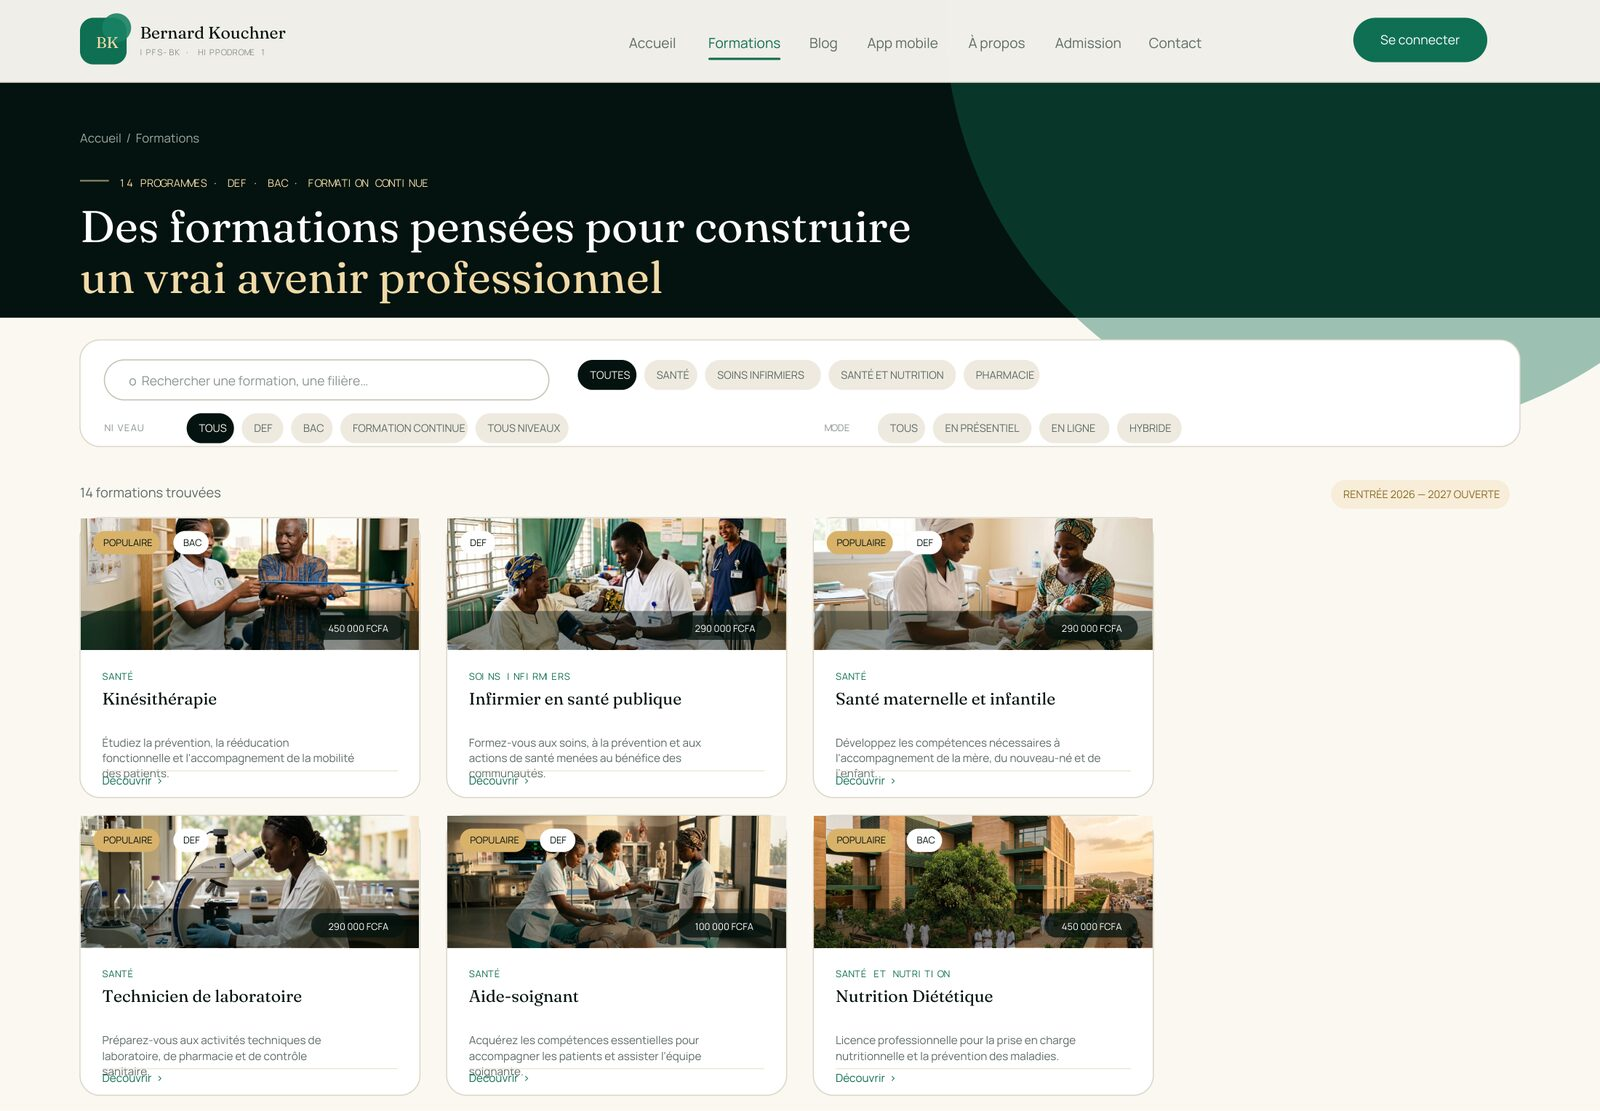
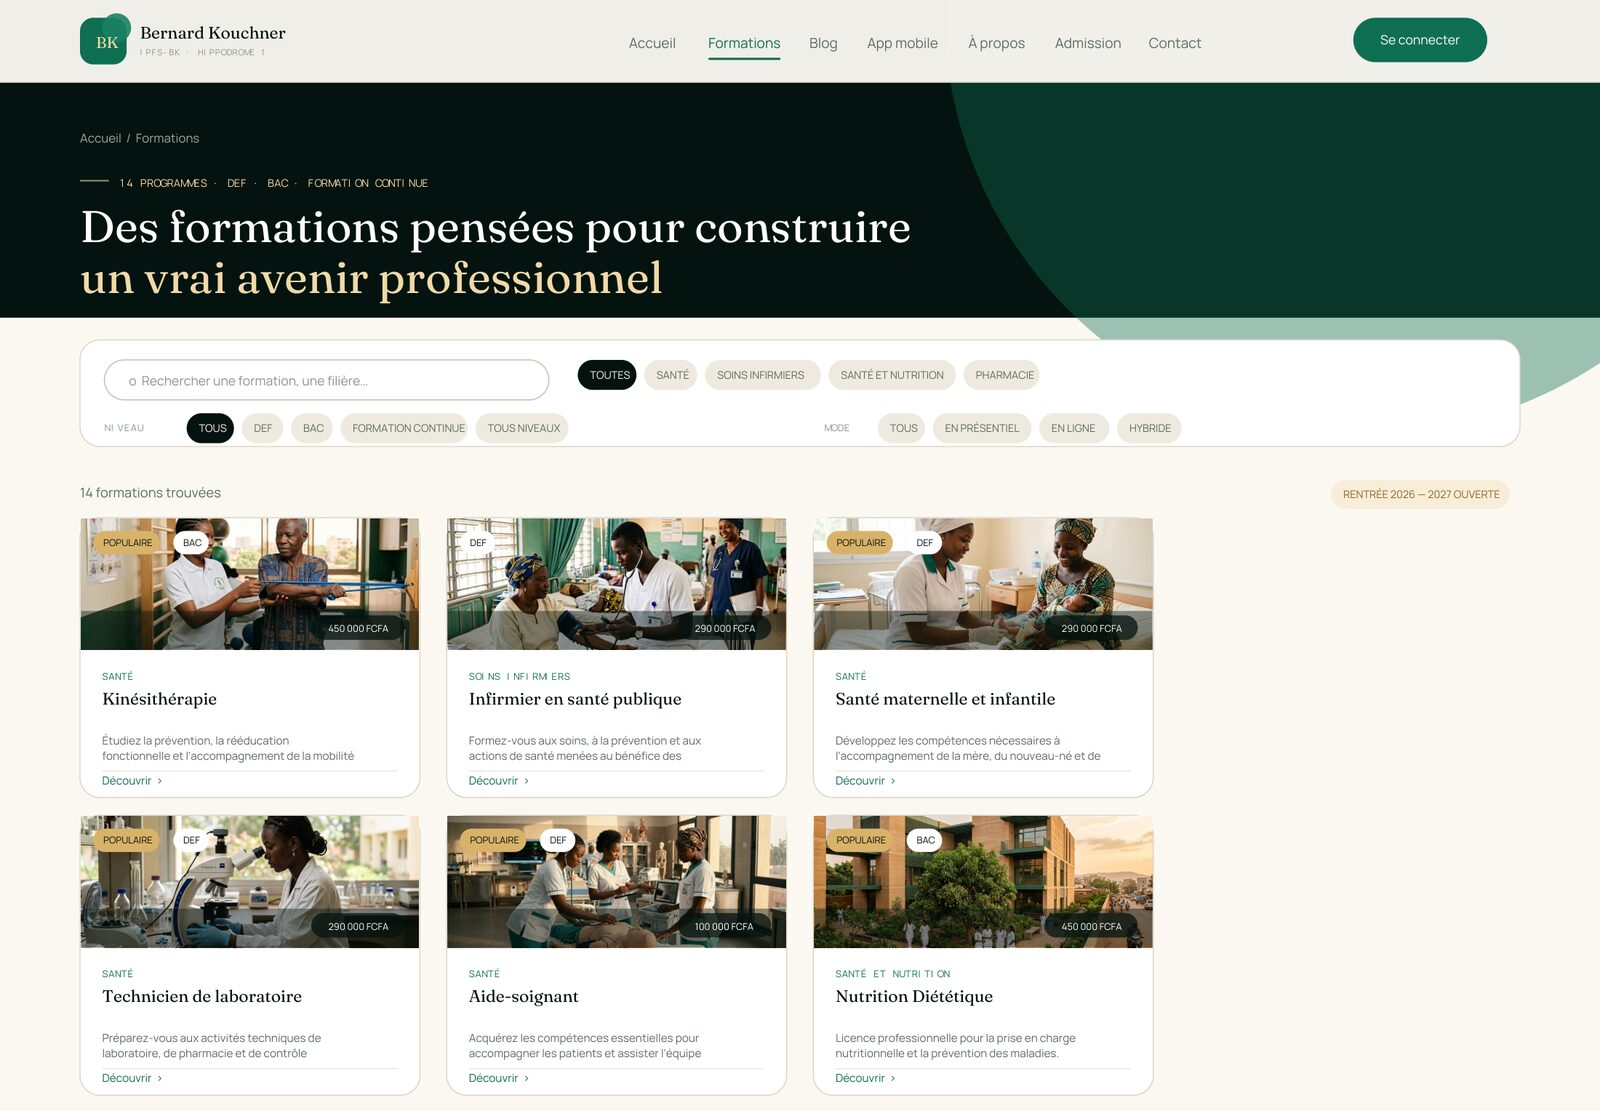
README : section site IPFS-BK

diff --git a/site/scripts/preview.py b/site/scripts/preview.py
@@ -418,7 +418,7 @@ def page_formations():
         c.text(x + 250, y + 103, price, size=8.5, color=WHITE, anchor="center")
         c.text(x + 20, y + 146, meta.split("·")[0].strip().upper(), size=8.5, color=EMERALD, spacing=1.3)
         c.wrap_px(x + 20, y + 168, title, 15, 264, serif=True, lh=18)
-        c.wrap_px(x + 20, y + 206, desc, 10, 264, color=MUTED, lh=14)
+        c.wrap_px(x + 20, y + 204, desc, 10, 250, color=MUTED, lh=14, max_lines=2)
         c.line(x + 20, y + 228, x + 286, y + 228, color=(0.93, 0.91, 0.87))
         c.text(x + 20, y + 240, "Découvrir  ↗", size=10, color=EMERALD)
     return c

diff --git a/README.md b/README.md
@@ -11,6 +11,21 @@ au premier lancement, un écran de configuration crée l'établissement, l'anné
 scolaire et le premier compte Direction. Les vraies données sont ensuite saisies
 directement dans Kalanso.
 
+## Site vitrine IPFS-BK
+
+Le dossier `site/` contient un site React autonome pour l'**Institut Privé de
+Formation Sanitaire Bernard Kouchner** (Hippodrome 1, Bamako) : accueil,
+14 formations, blog, présentation de l'application mobile, admission, contact et
+un **espace personnel en version PC** qui s'affiche dès qu'un membre du personnel
+se connecte.
+
+```bash
+cd site && npm install && npm run dev     # http://localhost:5180
+```
+
+Accès de démonstration personnel : `direction@ipfs-bk.ml` / `direction2026`.
+Aperçus des écrans : `site-previews/` (générés par `site/scripts/preview.py`).
+
 ## Contenu
 
 | Dossier | Contenu |
